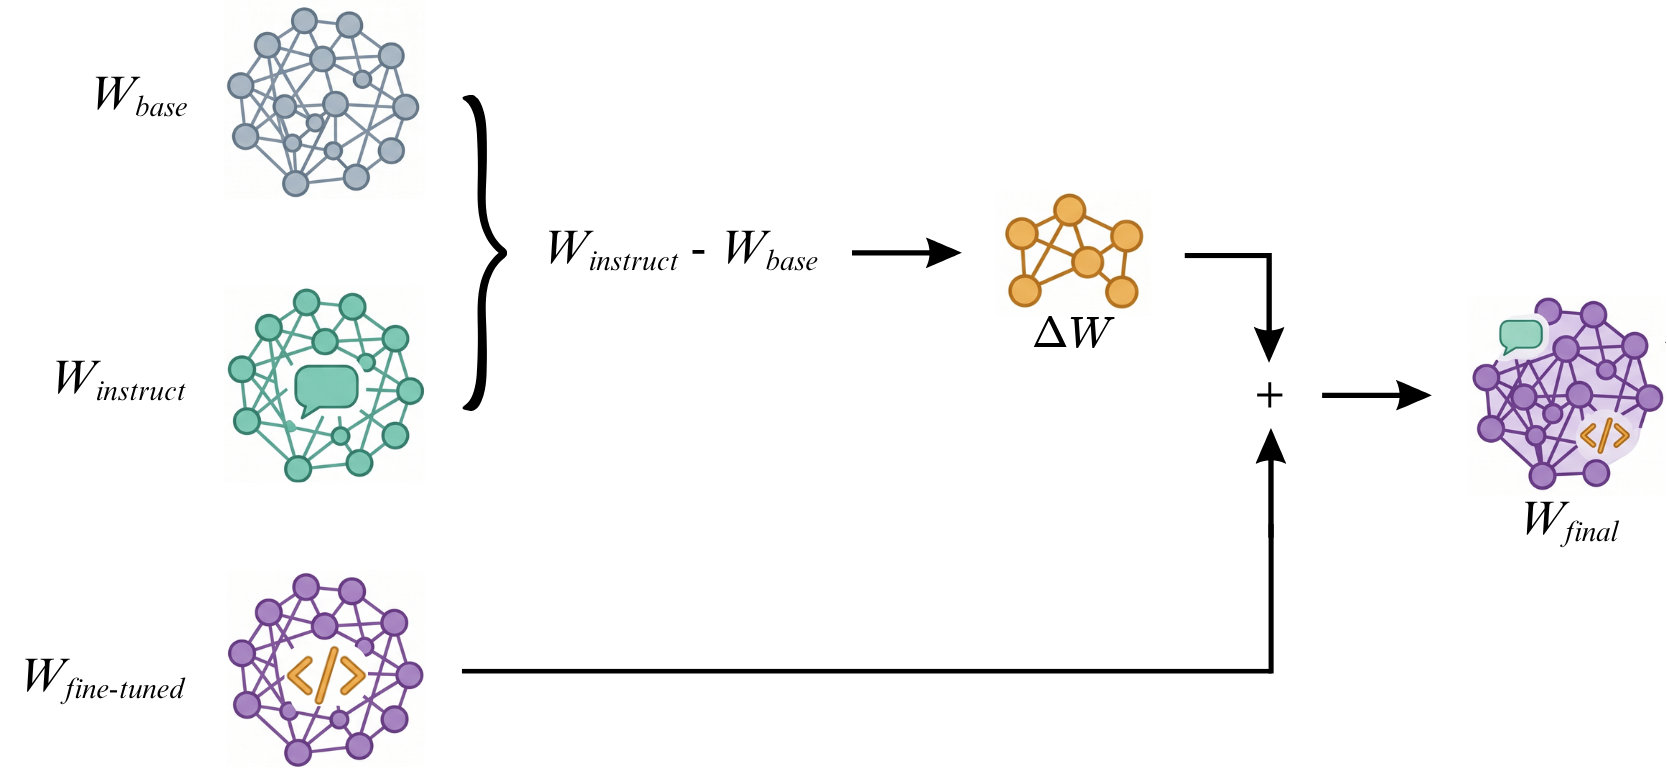
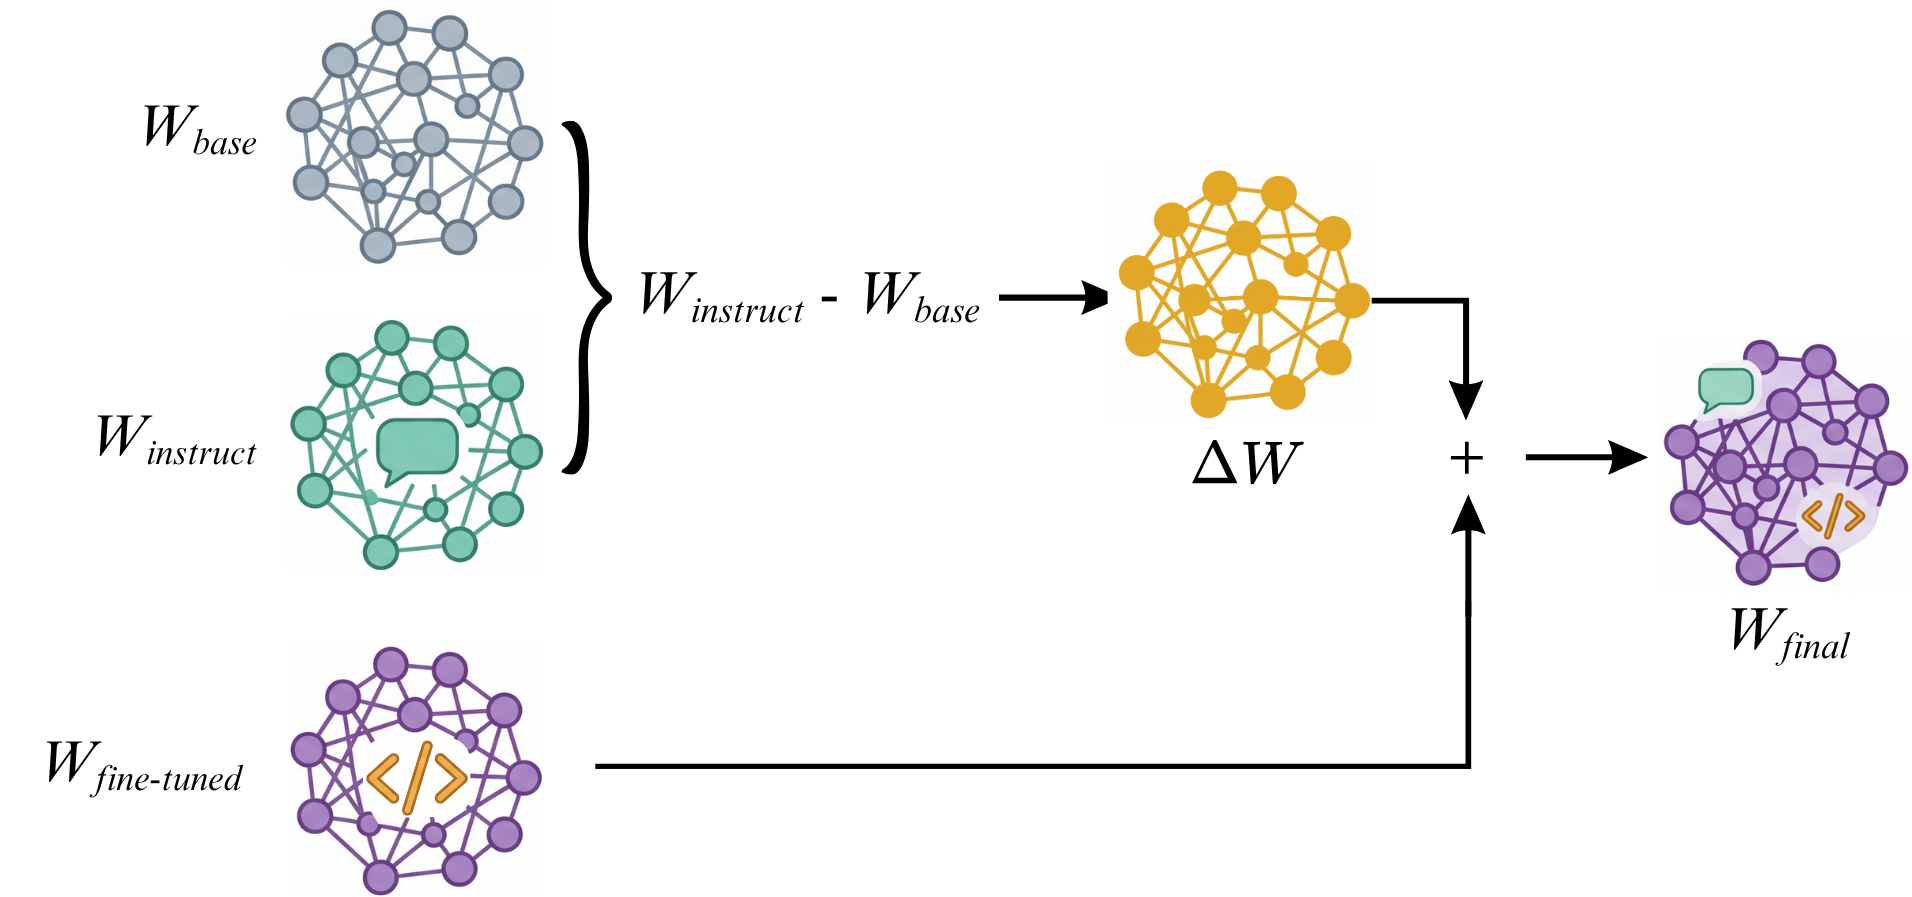
Update figure reference for weight transfer in thesis and remove obsolete image

Changed region(s): [[0.0312, 0.0, 0.7798, 0.6562], [0.0, 0.5625, 0.7798, 1.0], [0.7487, 0.375, 0.9982, 0.75]]

diff --git a/usi-master-thesis.tex b/usi-master-thesis.tex
@@ -530,7 +530,7 @@ producing the final pair of models that are evaluated throughout the rest of the
 
 \begin{figure}[h]
 \centering
-\includegraphics[width=\linewidth]{img/weight_transfer_pic.png}
+\includegraphics[width=\linewidth]{img/weight_transfer.png}
 \caption{Post-training instruct weight transfer. The instruction-following delta
 ($W_{\text{instruct}} - W_{\text{base}}$) is extracted from the official Instruct model
 and added to each fine-tuned checkpoint, injecting chat-style capability without any